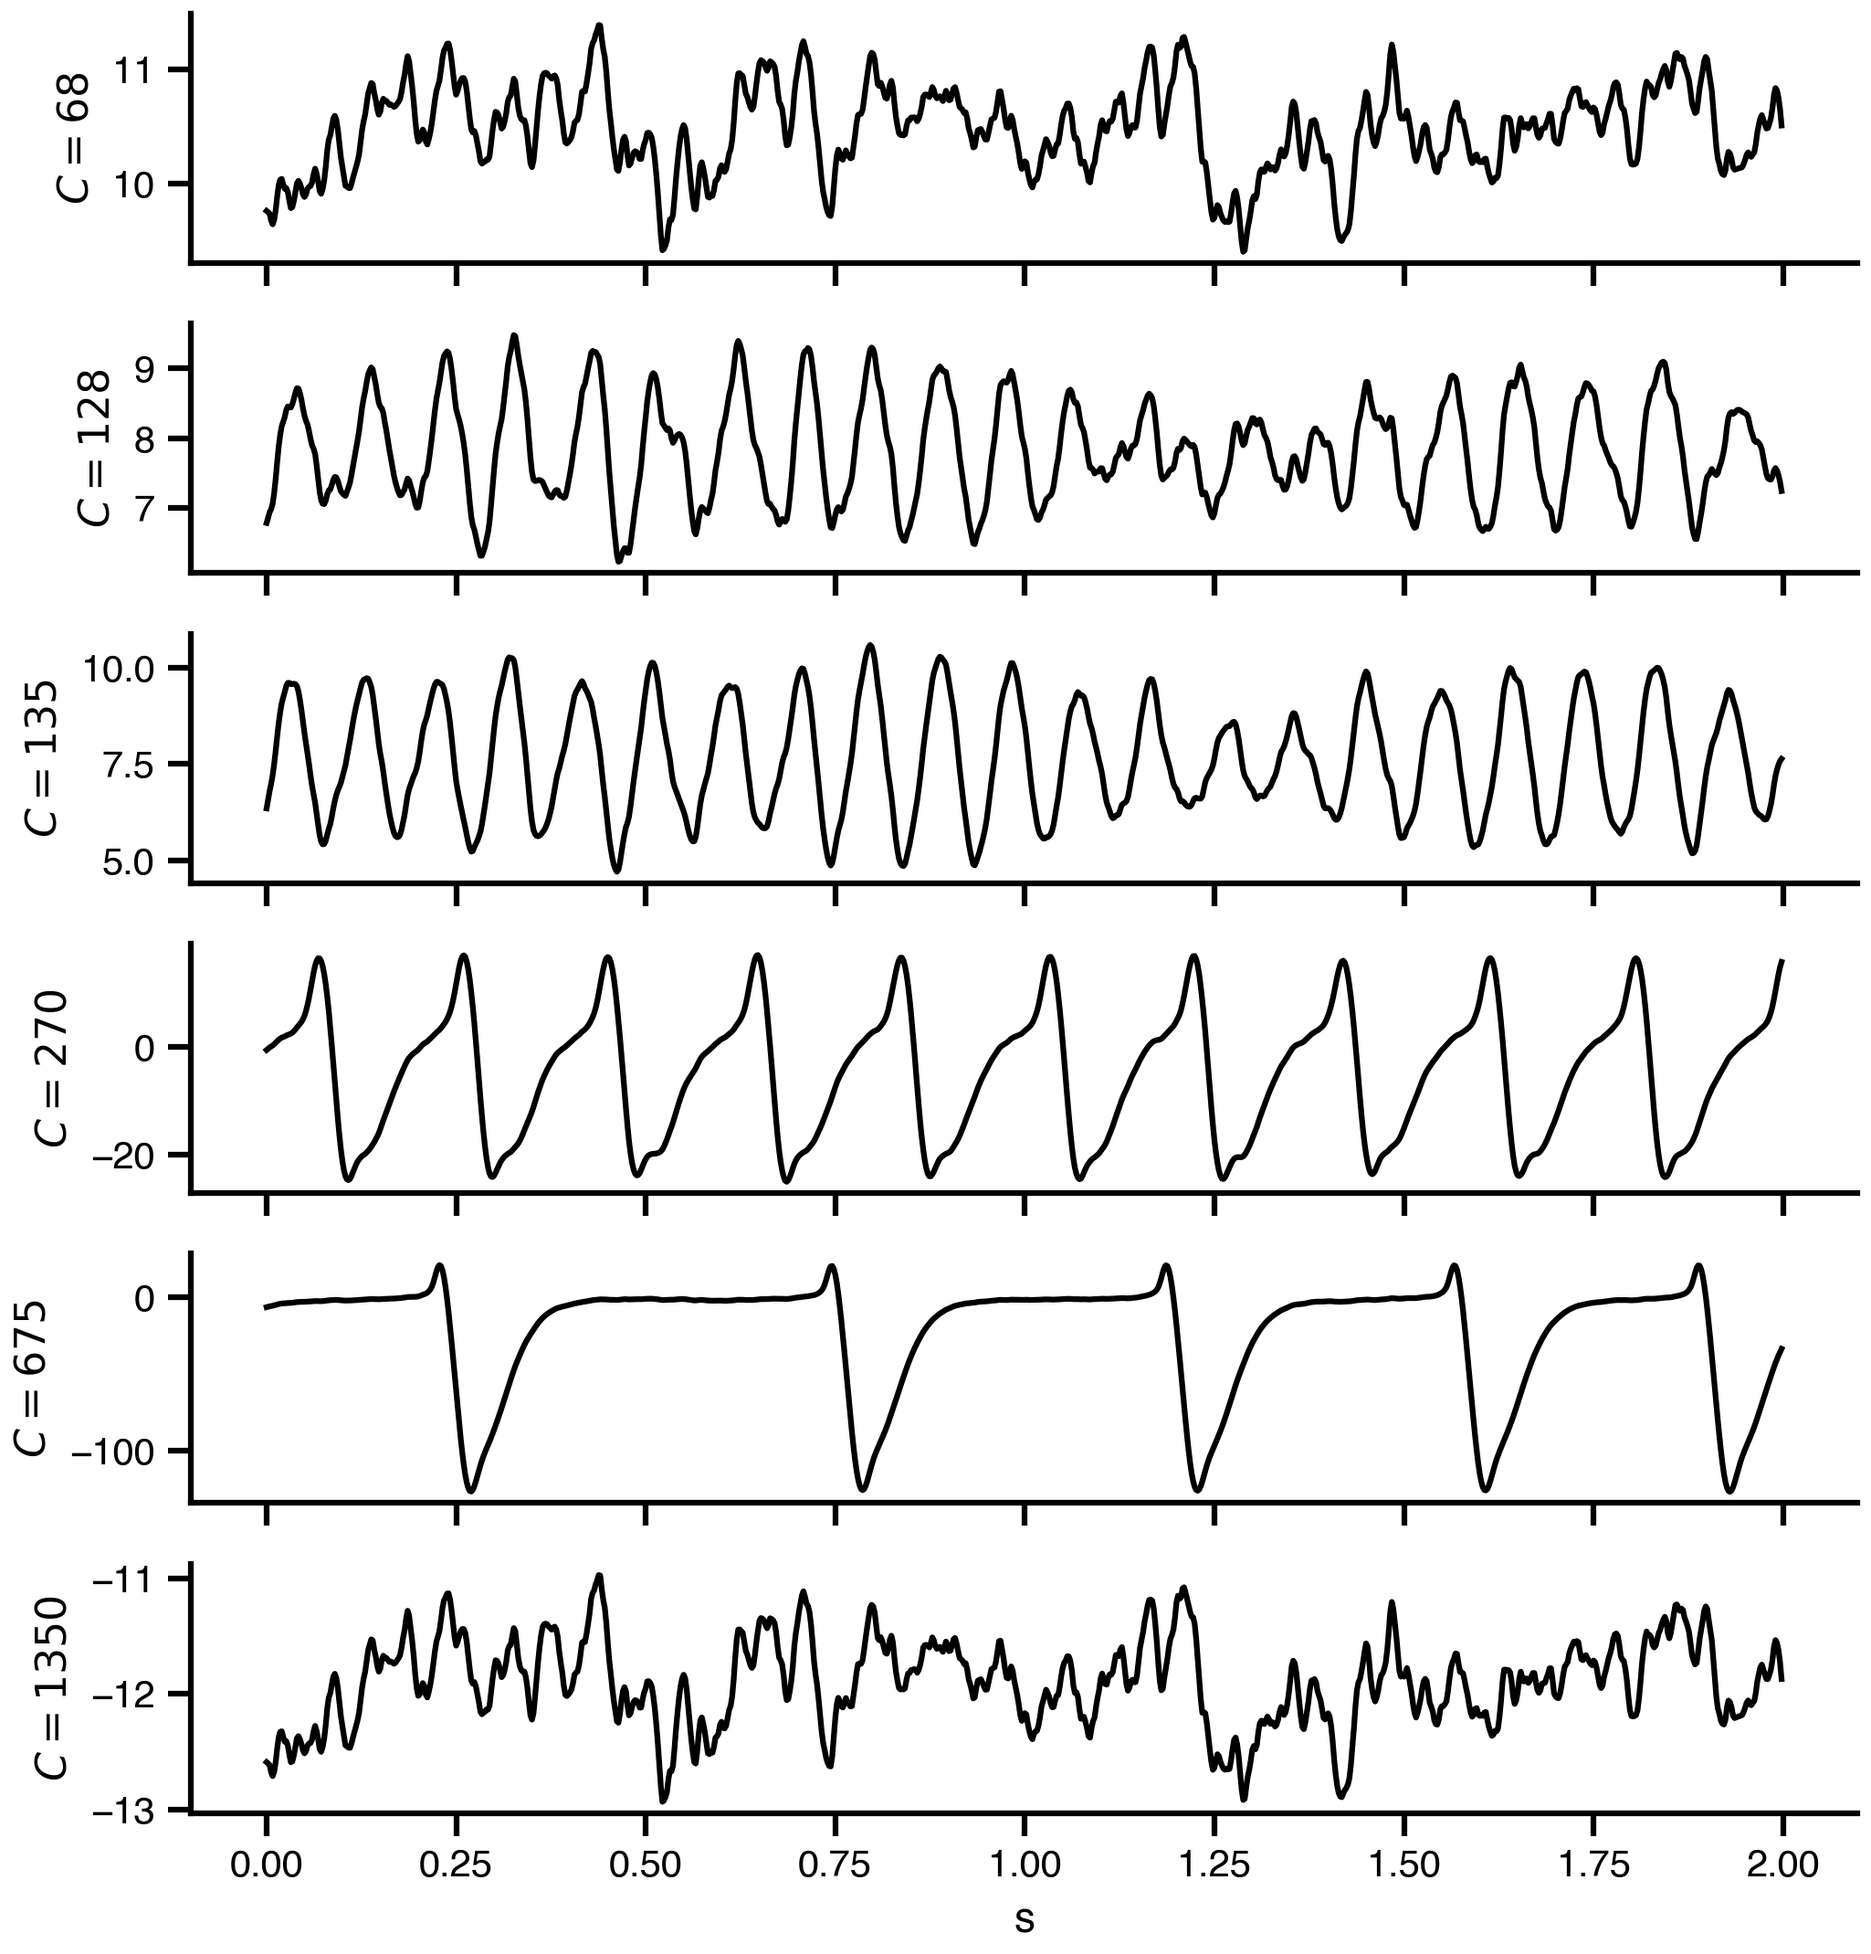
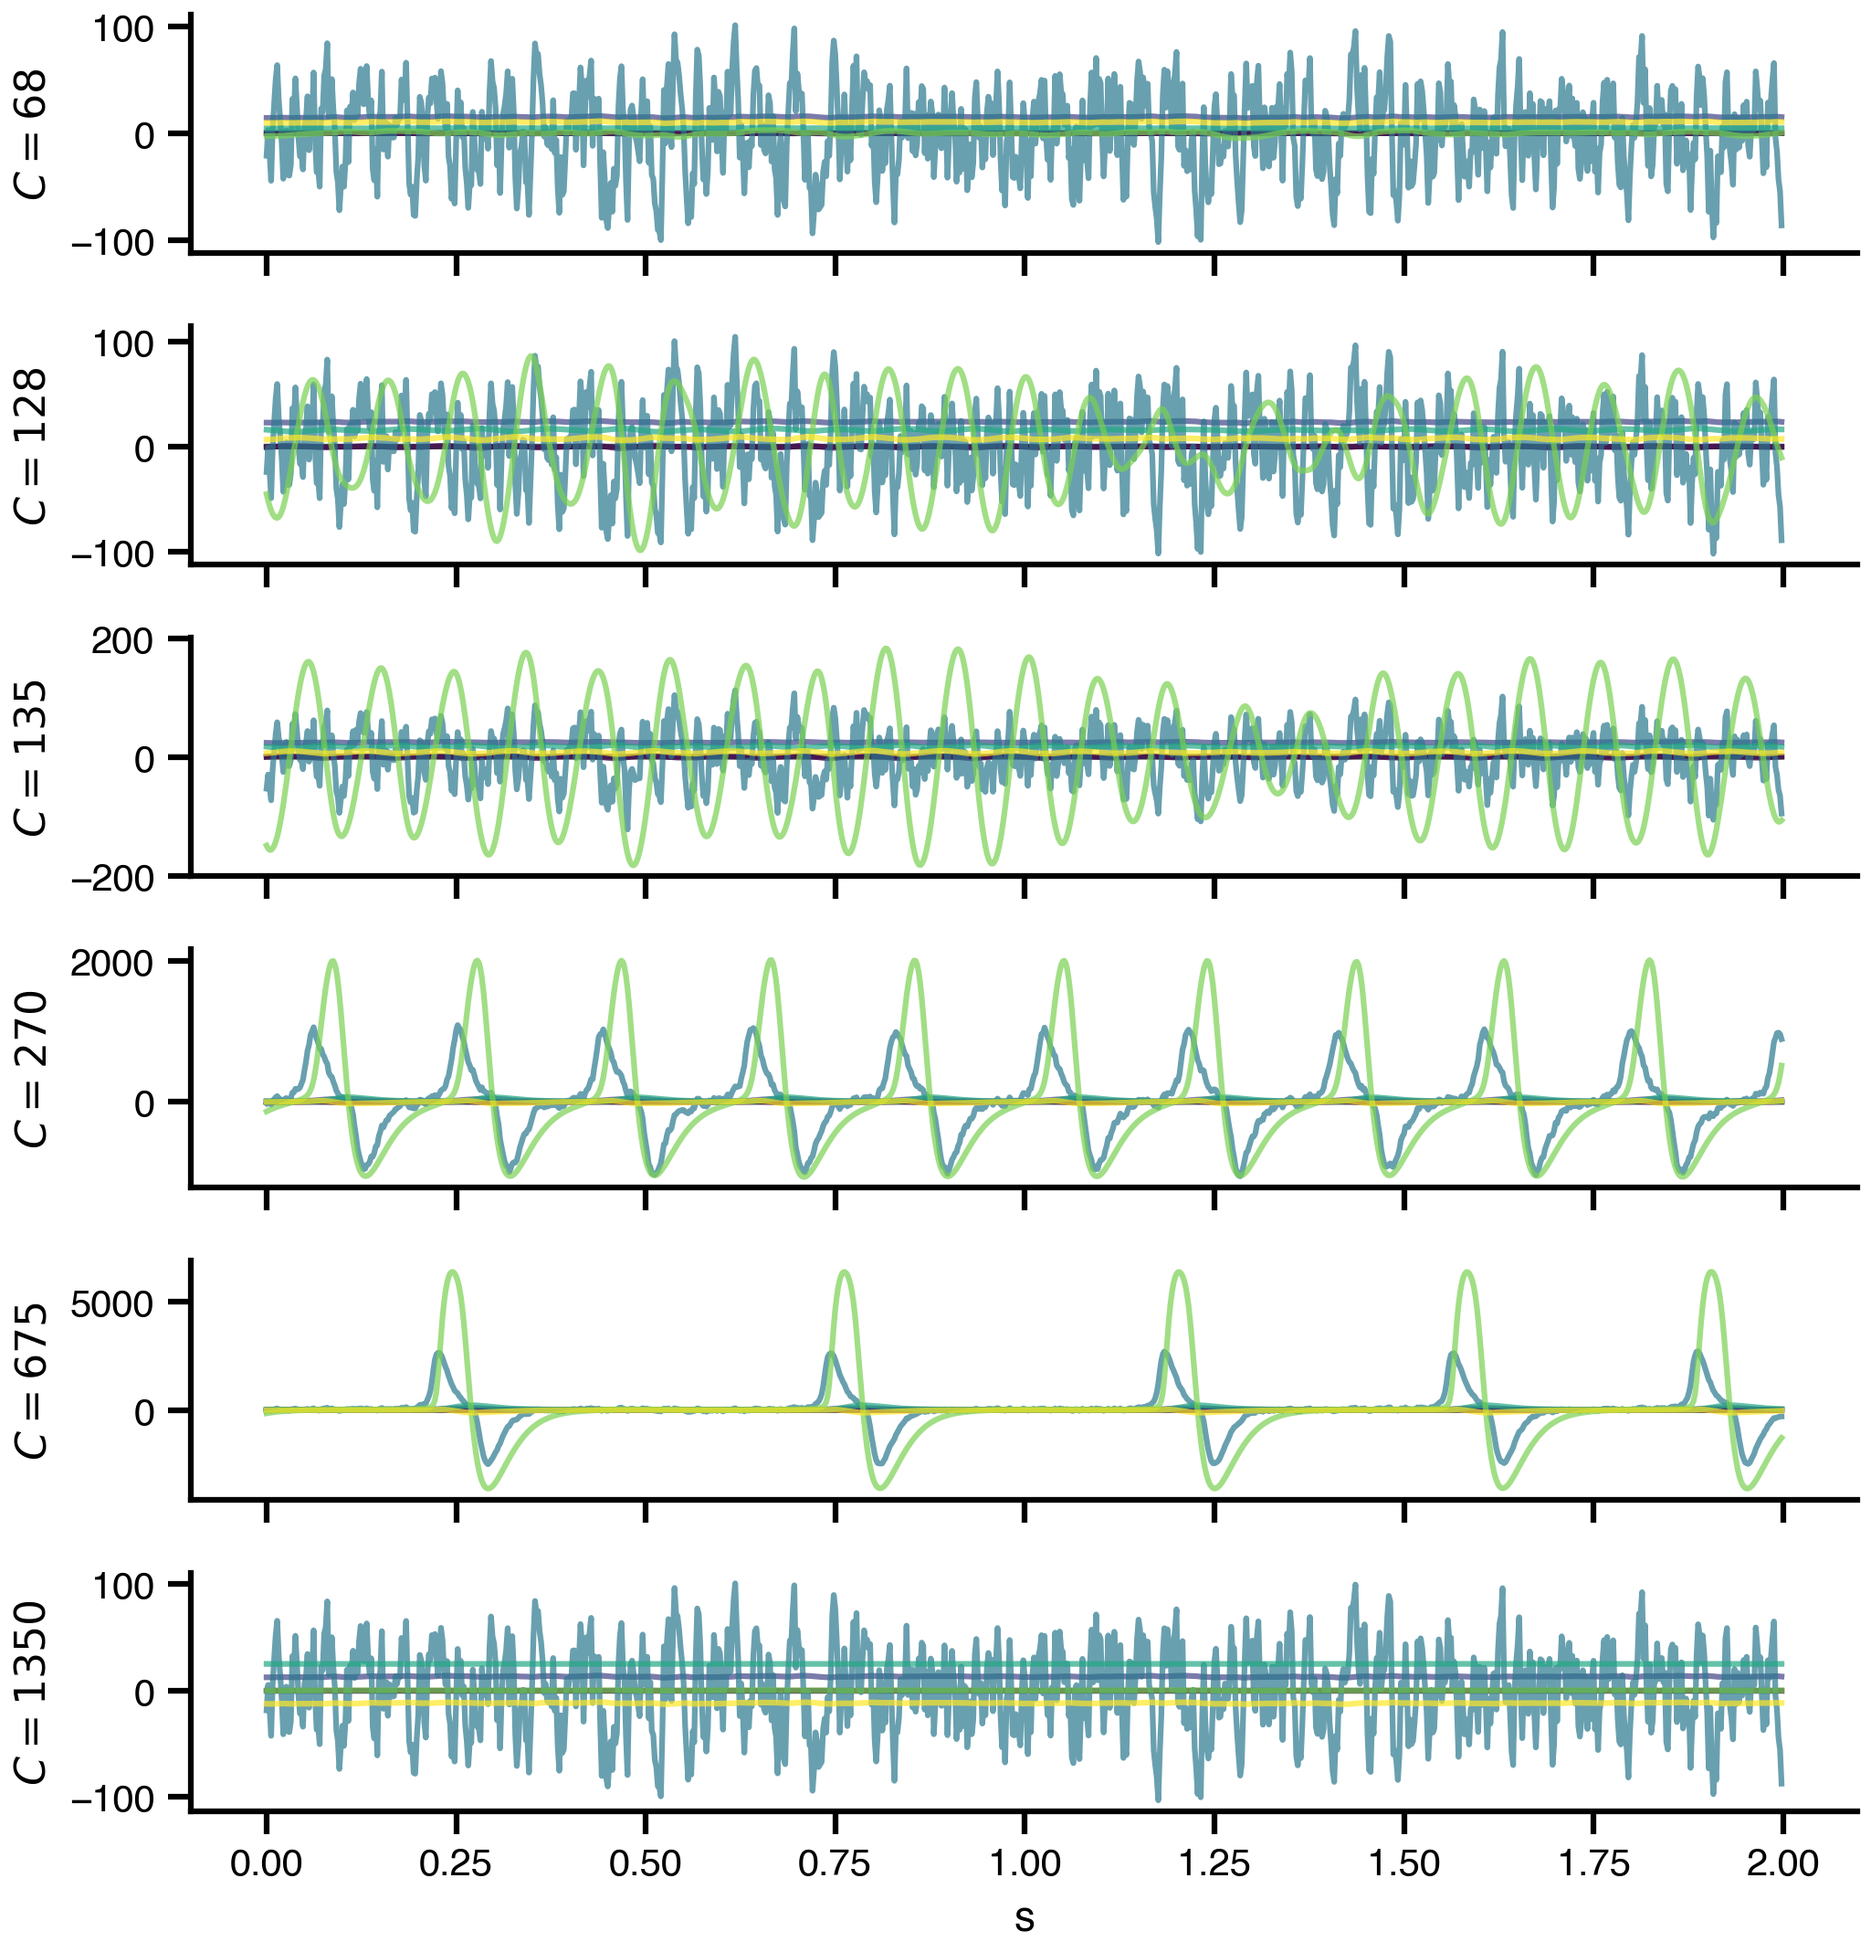
Enhance initial condition handling and distribution sampling in dynamics and experiment classes; update documentation for phase portrait visualization and initial conditions setup.

diff --git a/tvbo/classes/dynamics.py b/tvbo/classes/dynamics.py
@@ -2045,19 +2045,43 @@ class Dynamics(tvbo_datamodel.Dynamics):
 
     def get_initial_values(self, default=0.1, random=False, N=1, **kwargs):
         if random:
+            import warnings
+            warnings.warn(
+                "random=True is deprecated. Set distribution on state variables instead.",
+                DeprecationWarning, stacklevel=2,
+            )
+        # Auto-detect: if any SV has a distribution, sample from it
+        has_distributions = any(
+            getattr(sv, 'distribution', None) for sv in self.state_variables.values()
+        )
+        if random or has_distributions:
             init = []
             for k, sv in self.state_variables.items():
-                lo, hi = sv.domain.lo if sv.domain else -10, (
-                    sv.domain.hi if sv.domain else 10
-                )
-                if sv.boundaries:
-                    lo = max(lo, sv.boundaries.lo)
-                    hi = min(hi, sv.boundaries.hi)
-                if random:
+                dist = getattr(sv, 'distribution', None)
+                if dist:
+                    # Use distribution.domain, fall back to sv.domain
+                    domain = getattr(dist, 'domain', None) or getattr(sv, 'domain', None)
+                    lo = float(domain.lo) if domain and domain.lo is not None else -10.0
+                    hi = float(domain.hi) if domain and domain.hi is not None else 10.0
+                    dist_name = str(getattr(dist, 'name', 'Uniform')).lower()
+                    if dist_name in ('gaussian', 'normal'):
+                        sv_init = np.random.normal(loc=(lo + hi) / 2, scale=(hi - lo) / 6, size=N)
+                    else:
+                        sv_init = np.random.uniform(lo, hi, size=N)
+                elif random:
+                    # Legacy fallback: sample from domain/boundaries
+                    lo = sv.domain.lo if sv.domain else -10
+                    hi = sv.domain.hi if sv.domain else 10
+                    if sv.boundaries:
+                        lo = max(lo, sv.boundaries.lo)
+                        hi = min(hi, sv.boundaries.hi)
                     sv_init = np.random.uniform(lo, hi, size=N)
-                if random == "normal":
-                    sv_init = np.random.normal(loc=(lo + hi) / 2, scale=(hi - lo) / 6)
-                self.state_variables[k].initial_value = sv_init
+                else:
+                    # No distribution, no random flag → use initial_value
+                    sv_init = np.repeat(
+                        float(sv.initial_value) if sv.initial_value is not None else default,
+                        N,
+                    )
                 init.append(sv_init)
         else:
             init = [

diff --git a/tvbo/datamodel/schema.py b/tvbo/datamodel/schema.py
@@ -1,5 +1,5 @@
 # Auto generated from tvbo_datamodel.yaml by pythongen.py version: 0.0.1
-# Generation date: 2026-03-16T19:02:34
+# Generation date: 2026-03-17T18:17:47
 # Schema: tvb-datamodel
 #
 # id: https://w3id.org/tvbo
@@ -2322,10 +2322,10 @@ class Exploration(YAMLRoot):
     class_model_uri: ClassVar[URIRef] = TVBO.Exploration
 
     name: Union[str, ExplorationName] = None
-    parameters: Union[dict[Union[str, ParameterName], Union[dict, Parameter]], list[Union[dict, Parameter]]] = empty_dict()
     label: Optional[str] = None
     description: Optional[str] = None
     execution: Optional[Union[dict, "ExecutionConfig"]] = None
+    parameters: Optional[Union[dict[Union[str, ParameterName], Union[dict, Parameter]], list[Union[dict, Parameter]]]] = empty_dict()
     mode: Optional[str] = "product"
     observable: Optional[Union[dict, FunctionCall]] = None
     n_parallel: Optional[int] = 1
@@ -2338,10 +2338,6 @@ class Exploration(YAMLRoot):
         if not isinstance(self.name, ExplorationName):
             self.name = ExplorationName(self.name)
 
-        if self._is_empty(self.parameters):
-            self.MissingRequiredField("parameters")
-        self._normalize_inlined_as_dict(slot_name="parameters", slot_type=Parameter, key_name="name", keyed=True)
-
         if self.label is not None and not isinstance(self.label, str):
             self.label = str(self.label)
 
@@ -2350,6 +2346,8 @@ class Exploration(YAMLRoot):
 
         if self.execution is not None and not isinstance(self.execution, ExecutionConfig):
             self.execution = ExecutionConfig(**as_dict(self.execution))
+
+        self._normalize_inlined_as_dict(slot_name="parameters", slot_type=Parameter, key_name="name", keyed=True)
 
         if self.mode is not None and not isinstance(self.mode, str):
             self.mode = str(self.mode)
@@ -5910,7 +5908,7 @@ slots.exploration__execution = Slot(uri=TVBO.execution, name="exploration__execu
                    model_uri=TVBO.exploration__execution, domain=None, range=Optional[Union[dict, ExecutionConfig]])
 
 slots.exploration__parameters = Slot(uri=TVBO.parameters, name="exploration__parameters", curie=TVBO.curie('parameters'),
-                   model_uri=TVBO.exploration__parameters, domain=None, range=Union[dict[Union[str, ParameterName], Union[dict, Parameter]], list[Union[dict, Parameter]]])
+                   model_uri=TVBO.exploration__parameters, domain=None, range=Optional[Union[dict[Union[str, ParameterName], Union[dict, Parameter]], list[Union[dict, Parameter]]]])
 
 slots.exploration__mode = Slot(uri=TVBO.mode, name="exploration__mode", curie=TVBO.curie('mode'),
                    model_uri=TVBO.exploration__mode, domain=None, range=Optional[str])

diff --git a/tvbo/classes/experiment.py b/tvbo/classes/experiment.py
@@ -1239,9 +1239,15 @@ class SimulationExperiment(tvbo_datamodel.SimulationExperiment):
         simulation_data = Bunch()
 
         if format.lower() == "tvb":
-            initial_conditions = self.collect_initial_conditions(
-                random=kwargs.pop("random_initial_conditions", False)
-            )
+            _random_ic = kwargs.pop("random_initial_conditions", False)
+            if _random_ic:
+                import warnings
+                warnings.warn(
+                    "random_initial_conditions=True is deprecated. "
+                    "Set distribution on state variables instead.",
+                    DeprecationWarning, stacklevel=2,
+                )
+            initial_conditions = self.collect_initial_conditions(random=_random_ic)
             simulator_ = self.execute()
             simulator_.initial_conditions = initial_conditions.data
             simulator_.configure()
@@ -1576,8 +1582,20 @@ class SimulationExperiment(tvbo_datamodel.SimulationExperiment):
         n_nodes = getattr(self.network, 'number_of_nodes', None) or 1
 
         if random:
+            import warnings
+            warnings.warn(
+                "random=True is deprecated. Set distribution on state variables instead.",
+                DeprecationWarning, stacklevel=2,
+            )
+
+        # Auto-detect distributions on state variables
+        has_distributions = any(
+            getattr(sv, 'distribution', None) for sv in self.dynamics.state_variables.values()
+        )
+
+        if random or has_distributions:
             history.append(
-                self.dynamics.get_initial_values(random=True, N=n_nodes)
+                self.dynamics.get_initial_values(N=n_nodes)
             )
         else:
             for sv in self.dynamics.state_variables.values():

diff --git a/tvbo/datamodel/pydantic.py b/tvbo/datamodel/pydantic.py
@@ -5691,7 +5691,7 @@ class Exploration(ConfiguredBaseModel):
                        'Algorithm',
                        'Continuation',
                        'SimulationExperiment']} })
-    parameters: dict[str, Parameter] = Field(default=..., description="""Parameters with domain ranges to explore (uses domain.lo, domain.hi, domain.n)""", json_schema_extra = { "linkml_meta": {'domain_of': ['Equation',
+    parameters: Optional[dict[str, Parameter]] = Field(default=None, description="""Parameters with domain ranges to explore (uses domain.lo, domain.hi, domain.n)""", json_schema_extra = { "linkml_meta": {'domain_of': ['Equation',
                        'Stimulus',
                        'Event',
                        'TemporalApplicableEquation',
